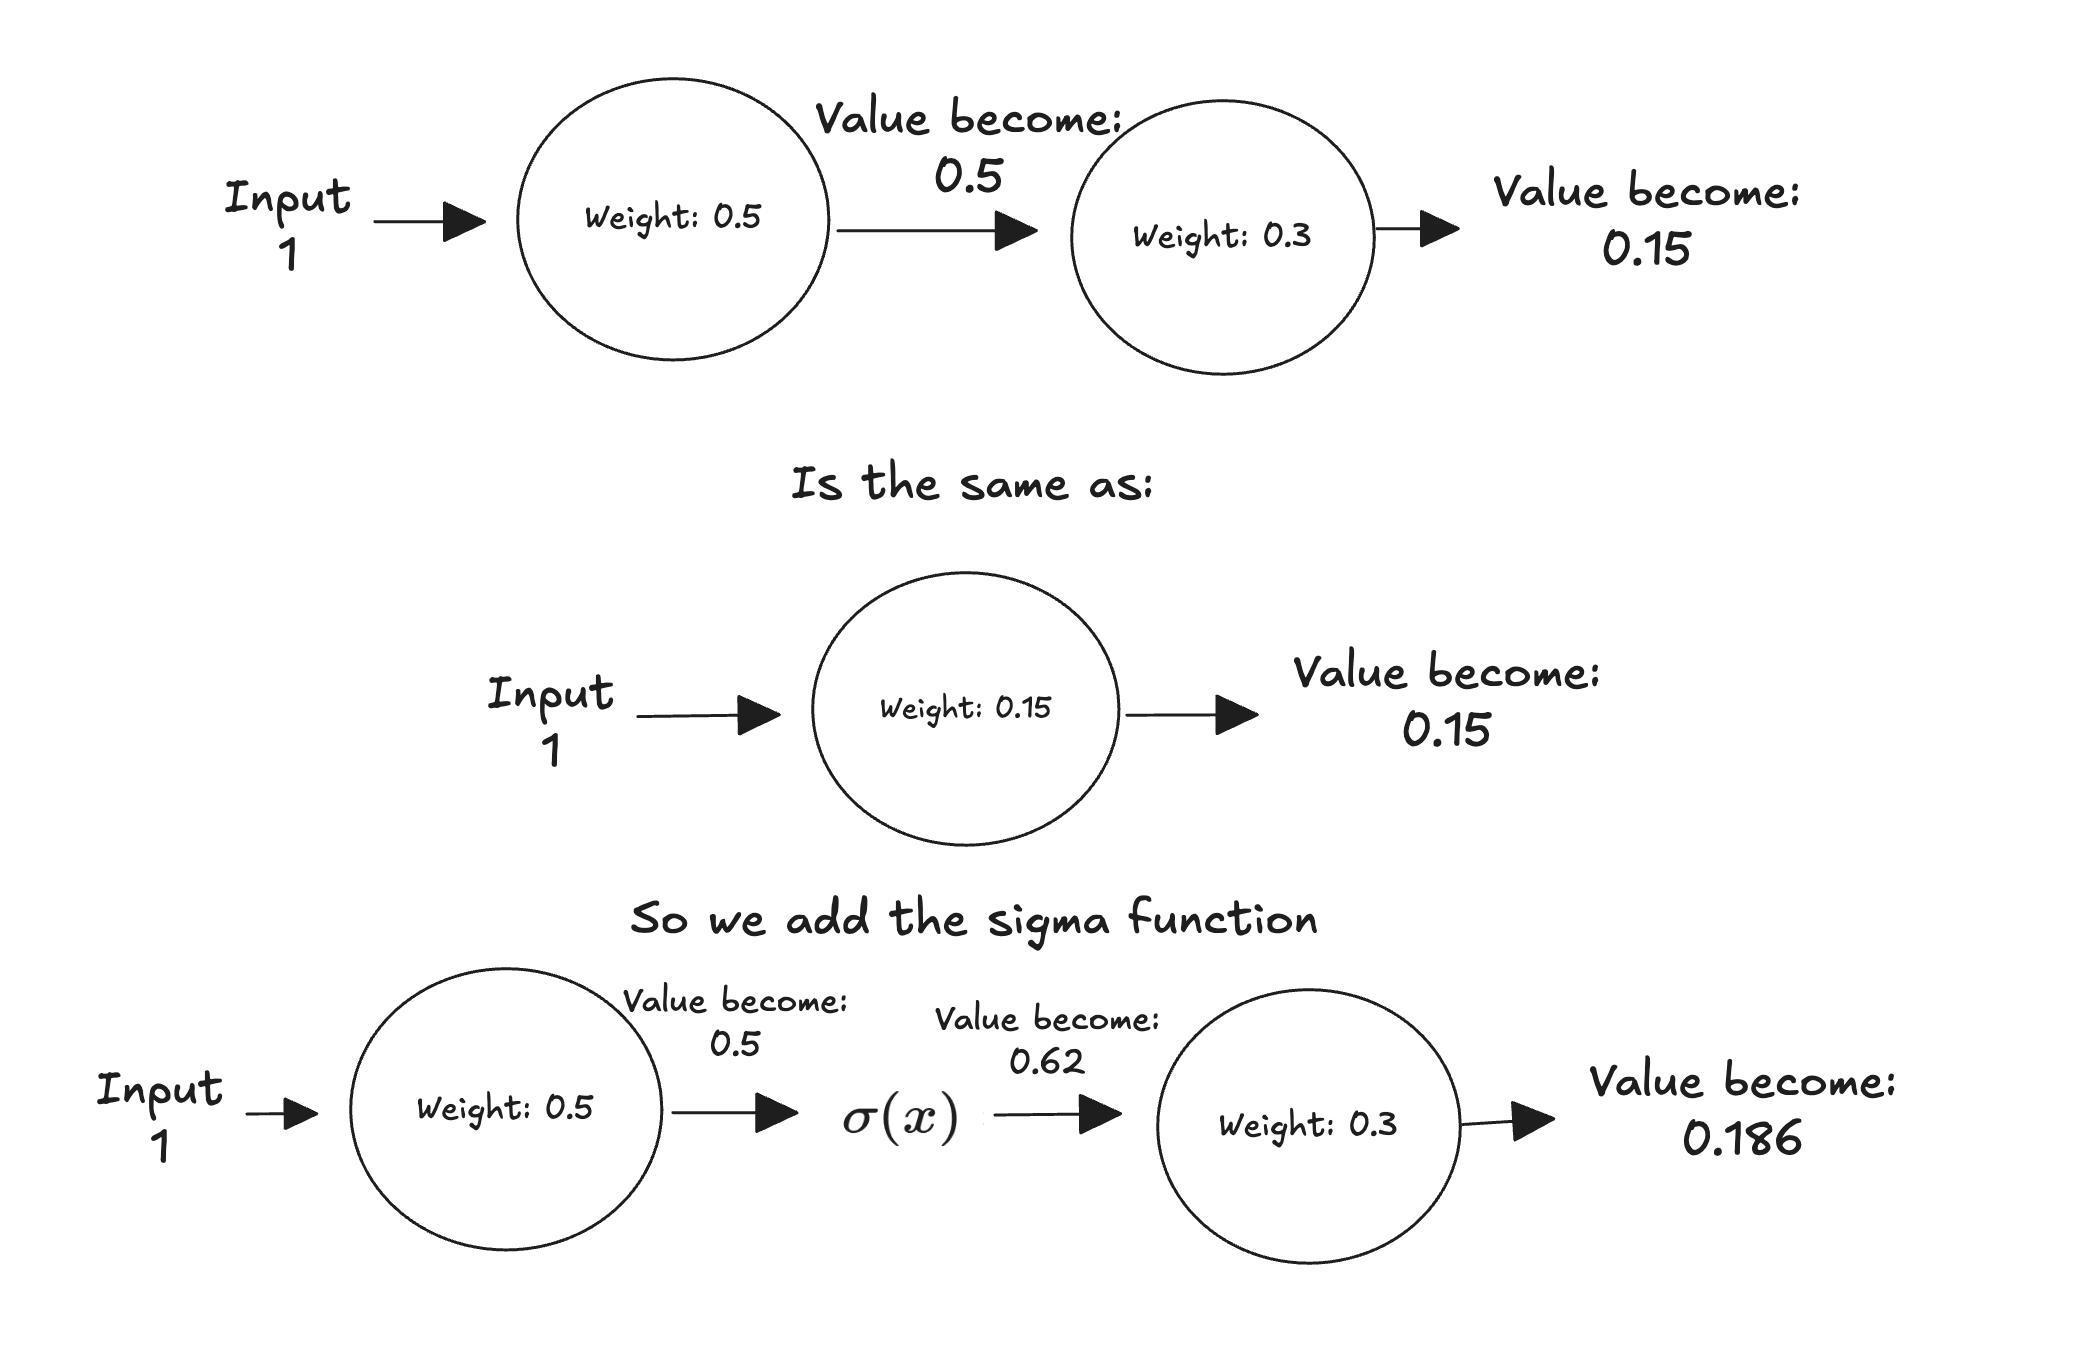
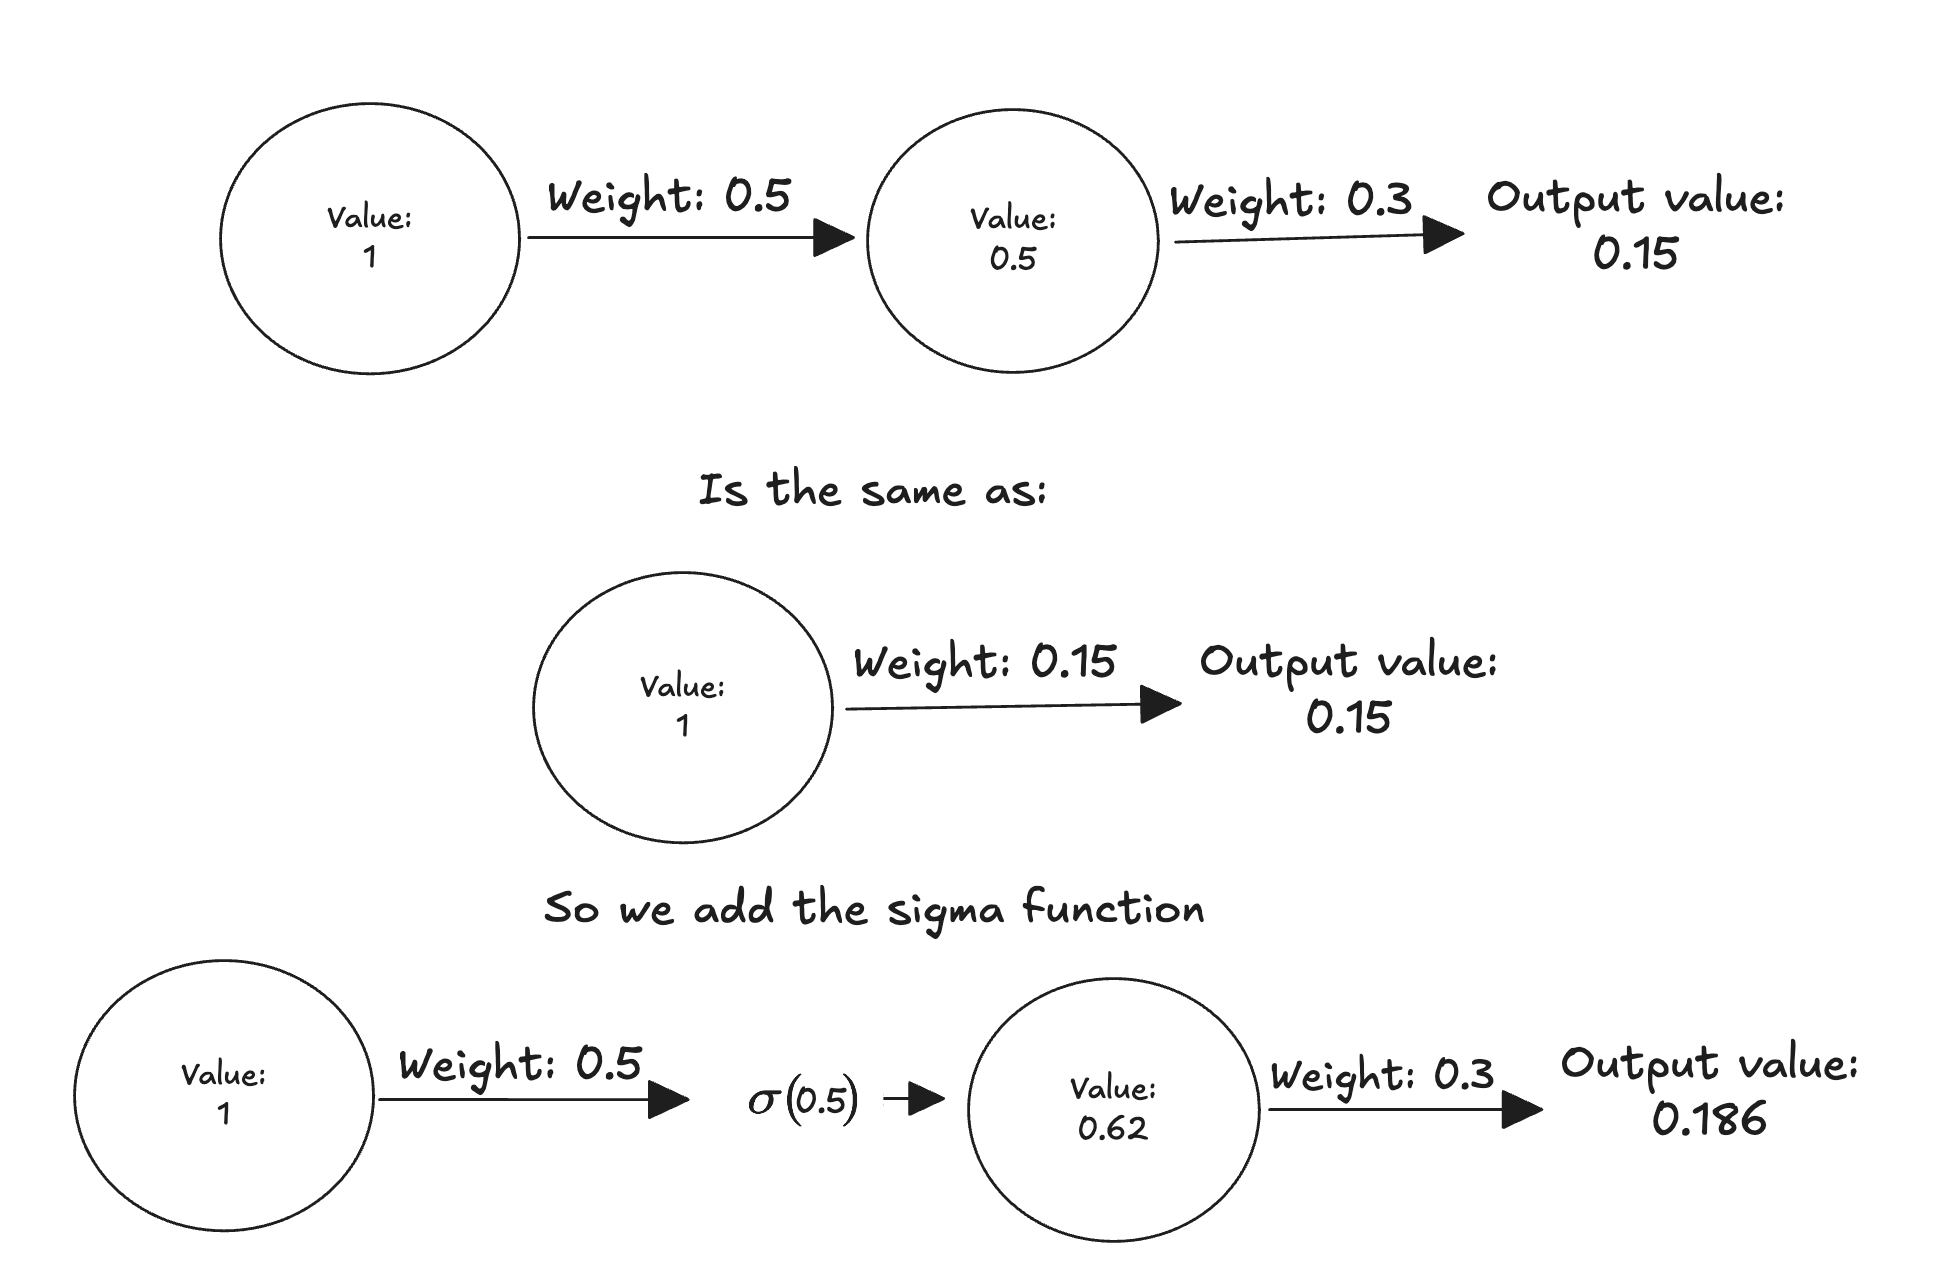
backprop and improved the BCE explanation

diff --git a/content/posts/Neural_networks.md b/content/posts/Neural_networks.md
@@ -11,7 +11,7 @@ math: true
 
 I'm going to try to cover everything from zero to present. I am not sure if it will be too technical or anything like that, but I will try to make it focused on didactics. That said, let's start..
 
-## Perceptron
+# Perceptron
 You can think of the perceptron as being the start of neural network applications. It was published in 1958 and explained how we could train artificial neurons to output desired data. The idea is pretty simple, it takes inputs of some type, and based on some parameters and thresholds, it outputs something with the desired behavior.
 
 {{< figure src="/img/neural_net/perceptron.png"
@@ -45,7 +45,7 @@ But this fix in weight will happen for all the input weights at the same time. T
 
 So after all this mathematics and changing the weights of your perceptron, it becomes actually useful, and when you feed it new real-world data, it outputs with a good accuracy (what is good here depends on context because a probability of rain accuracy of 80% can be okay, I mean, if it misses in 20% of the cases is not the end of the world).  So now you can set up your tech house with multiple sensors and connect everything to your local PC to run and feed the Perceptron and know everything about the chances of your roommate “forgetting” to do the dishes again.
 
-## ADALINE
+# ADALINE
 >I was pondering going directly to multilayer perceptron and explaining backpropagation there. But it would be missing something, so I think ADALINE is a good context bridge. 
 This topic will be a bit math-heavy, so take your time to understand and digest the topics. I'm not going to bring anything outside basic math without a proper explanation of what it is and how it works. Some graph visualization will be necessary for simplification, so be ready.
 
@@ -111,7 +111,7 @@ In the case of ADALINA only a unique minima is possible because it's a exclusive
 
 ### Gradient Descent algorithm
 
-This algorithm is the union of the MSE with some tweaks to reach the minima. I really mean just minima because it works for convex and nonconvex problems, but in the last it is not garanted to reach the global minima.
+This algorithm is the union of the Loss function(MSE) with some tweaks to reach the minima. I really mean just minima because it works for convex and nonconvex problems, but in the last it is not garanted to reach the global minima.
 
 So, considering this plot:
 
@@ -155,7 +155,7 @@ Reminder that the \(\eta \) is just the learning rate which we want. If it's too
 
 This way we just discovered the GRADIENT DESCENT algorithm, not that bad right?
 
-## Multilayer perceptron
+# Multilayer perceptron
 
 This point is a milestone in training models, perceptrons, etc. There are two reasons for that. The first is that stacking layers lets us represent patterns a single perceptron simply can't, since the hidden layer adds the depth needed to capture more complex relationships. The second is the activation function: until now we leaned on the threshold, but it's not differentiable, so it doesn't play well with gradient descent. The sigmoid fixes that, because it outputs a smooth range from 0 to 1 and, more importantly, it's differentiable, which is exactly what lets us run gradient descent (and later backpropagation) across multiple layers. This will open new horizons for learning procedures that use gradient descent at scale.
 
@@ -191,7 +191,7 @@ When models are trained or tested for some generalization feature, they use some
    caption="Figure 9- Polynomial plot overfit" 
    align="center" >}}
 
-## Activations | Sigmoids
+## Activations | Sigmoids $\phi$
 
 The sigmoids, also called _activation_ , will be the nonlinear function that will add the expressiveness for our models.
 
@@ -238,7 +238,7 @@ This is the graph plot of this function:
    caption="Figure 11 - Sigmoid function plot" 
    align="center" >}}
 
-## Cost functions
+## Cost functions $\mathcal{L}$
 
 For the sake of simplicity, I was keeping just the MSE, but right now we can have some additional thoughts on that. Considering that training is an optimization problem, the way to measure the error can return different results depending on the output. If our optimization has to prioritize normal number outputs, the MSE is great, but if we want some binary classification, it doesn't work too well because of the activation function. The derivative of the sigmoid flattens every loss calculation that's too minimal or too big. If we consider some prediction that the correct answer is 1 and it outputted 0.01, the error is massive but will be invisible after the derivative of the sigmoid. The same happens if the error is minimal or the value is probably correct. The change in the actual optimization is negligible. The plot below shows the effects side by side.
 
@@ -251,13 +251,115 @@ For the sake of simplicity, I was keeping just the MSE, but right now we can hav
 
 With this we can imply that the sigmoids shouldn't be used for linear and continuous values while keeping the MSE (mean square error), because the training can be ineffective in the low and high gap. While in binary classification, we should evict the use of MSE.
 
-You can ask me what we use them.
+So the solution for binary classification is:
 
 ### Binary cross entropy
 
-This loss function, which, contrary to the MSE, performs well in binary classifications.
+This loss function, contrary to the MSE, performs well in binary classifications. 
 
+>Recap: the $\hat{Y}_i$ is the predicted value and the $Y_i$ is the true label/correct value from the training dataset.
+
+> We will always use the negative log because numbers will always range 0 and 1 and this range always returns negative log but still super convenient for quantitative measuring in our case.
+
+>Math reminder $log(1) = 0$ and $log(0) = -\infty$
+
+$$ - (Y_i \cdot \log \hat{Y}_i + (1 - Y_i) \cdot \log(1 - \hat{Y}_i))$$
+
+<details style="margin: 1rem 0; padding: 0.75rem 1rem; border: 1px solid #ddd; border-radius: 8px; background: #f9f9f9;">
+<summary style="cursor: pointer; font-weight: 500; color: #000000;"> Click if you want to see the explanation to why 0 and 1 is not going to show up</summary>
+It could be a problem if we get the predicted value equals 0 or 1 but remember that the cost functions are calculated considering all the linear and nonlinear steps from the network and as I said before for binary classifications the activation function is higly recommeded (this case again I'm gonna cover only the sigmoid) and the output range is 0 and 1, mathematically it never reachs these values (system can round the number to 0 or 1 if is too close but training algorithms usually caps at a really small value to avoid this situation, because if you try to compute $log(0)$ it's gonna get a NAN error and the same goes on for number too close to 1) so we are safe.
+</details>
+
+Let's split the function in two parts:
+
+$$ - (Y_i \cdot \log \hat{Y}_i)$$
+
+This one I'm gonna call that the positive part. Here we calculate how well the network predicted the positive class when the answer really was close to 1, because the if the correct value is 1 it will mutiply the log calculated by one, therefore consider 100% of the $log \hat{Y}_i$, so it attach something like a weight for the how much this error measure is important for positive values.
+
+While in the other part (the negative one) it calculated how well the network predicted the negative class when the answer was close to 0. We multiply the log of $1 - \hat{Y}_i$ (one minus the predicted value) times $1 - Y_i$ because it will multiply 100% of the log only if the $Y_i$ (expected value) is 0 otherwise it will remove the importancy of the calculated log of $1 - \hat{Y}_i$.
+
+$$- ((1 - Y_i) \cdot \log(1 - \hat{Y}_i))$$
+
+This table show the relation of the sliced parts when put together:
+
+| True label $Y$ | Part A | Part B | Active formula |
+|---|---|---|---|
+| 1 | $\log(\hat{Y})$ | 0 | $\mathcal{L} = -\log(\hat{Y})$ |
+| 0 | 0 | $\log(1 - \hat{Y})$ | $\mathcal{L} = -\log(1 - \hat{Y})$ |
+
+And the plot relation is this:
+
+{{< figure src="/img/neural_net/binary_cross_entropy_plot_agg.png" 
+   alt="Binary cross-entropy loss curves: the positive-class term, the negative-class term, and their aggregate plotted against the predicted value" 
+   caption="Figure 13 - Cross entropy plot for positive, negative and agg" 
+   align="center" >}}
+
+Also for the optimizing part, it becomes as simples as the MSE
+
+<details style="margin: 1rem 0; padding: 0.75rem 1rem; border: 1px solid #ddd; border-radius: 8px; background: #f9f9f9;">
+<summary style="cursor: pointer; font-weight: 500; color: #000000;"> Click if you want to math steps of this derivation</summary>
+$$
+\mathcal{L} = -\left[ Y \log \hat{Y} + (1 - Y) \log(1 - \hat{Y}) \right]
+$$
+
+$$
+\frac{\partial \mathcal{L}}{\partial \hat{Y}} = \frac{\partial}{\partial \hat{Y}} \left[ -Y \log \hat{Y} \right] + \frac{\partial}{\partial \hat{Y}} \left[ -(1-Y) \log(1 - \hat{Y}) \right]
+$$
+
+$$
+= -\frac{Y}{\hat{Y}} + \frac{1-Y}{1 - \hat{Y}}
+$$
+
+$$
+= \frac{-Y(1 - \hat{Y}) + (1-Y)\hat{Y}}{\hat{Y}(1 - \hat{Y})}
+$$
+
+$$
+= \frac{-Y + Y\hat{Y} + \hat{Y} - Y\hat{Y}}{\hat{Y}(1 - \hat{Y})}
+$$
+
+$$
+\frac{\partial \mathcal{L}}{\partial \hat{Y}} = \frac{\hat{Y} - Y}{\hat{Y}(1 - \hat{Y})}
+$$
+</details>
+
+We calculate the derivative of the binary cross entropy to finde the gradient descent and find the steepest ascent. Then just use the negative of this result to find the steepest descent which is the optimal scenario to reduce the _Loss_:
+
+$$\frac{\partial \mathcal{L}}{\partial \hat{Y}} = \frac{\hat{Y} - Y}{\hat{Y}(1 - \hat{Y})}$$
 
 ## Backpropagation algorithm
+
+Now for the actual training, we already know how to apply the gradient descent using two functions (mean square error, binary cross entropy) in unique weights situation but what about multilayer and multineuron?
+
+Let's start visualizing a multineuron example:
+
+{{< figure src="/img/neural_net/multineuron.png" 
+   alt="Multineuron: visualization with 2 hidden layers, 3 weights and bias with function of z and activation bellow" 
+   caption="Figure 14 - Multineuron visualization" 
+   align="center" >}}
+
+Here we can find a neuron with 2 hidden layers, both with activation function and the output also with activation function, there are 3 weights in the diagram and arrows pointing where each one fit in the value at point L function.
+
+This value after weight and bias calculation $z^{(L)}$ at point L when submited to the function $f(z^{(L)})$ evaluates as $a^{(L)}$.
+
+This $f()$ function is just a placeholder for any function, usually activation functions $\phi$ but can be used as identity functions (which does nothing so it only compact the weights from both sizes as we talked before) too in case of MSE regressions.
+
+With these functions and the draw in mind:
+
+$$z^{(L)} = w^{(L)} a^{(L-1)} + b^{(L)}$$
+
+$$a^{(L)} = f(z^{(L)})$$
+
+This is the sequence from input to the output:
+
+$$x \to z^{(L-2)} \to a^{(L-2)} \to z^{(L-1)} \to a^{(L-1)} \to z^{(L)} \to a^{(L)}$$
+
+>And here we start to cook the backpropagation idea, think that we want to make the system more optimized aka change the weights to increase the accuracy, push the output towards our goals and how do we do that? Exactly, apply derivatives to the find the steepest ascent again and apply with negative signal, because as I said before, doing that we are reducing the Loss ($\mathcal{L}$) and walking towards the lowest ascent.
+
+
+
+$$\frac{\partial \mathcal{L}}{\partial x} = \frac{\partial z^{(L-2)}}{\partial x} \cdot \frac{\partial a^{(L-2)}}{\partial z^{(L-2)}} \cdot \frac{\partial z^{(L-1)}}{\partial a^{(L-2)}} \cdot \frac{\partial a^{(L-1)}}{\partial z^{(L-1)}} \cdot \frac{\partial z^{(L)}}{\partial a^{(L-1)}} \cdot \frac{\partial a^{(L)}}{\partial z^{(L)}} \cdot \frac{\partial \mathcal{L}}{\partial a^{(L)}}$$
+
+<!-- ## Stochastic Gradient Descent -->
 
 <!-- ![Neural Networks](/img/neural_net/neural_networks.png) -->
